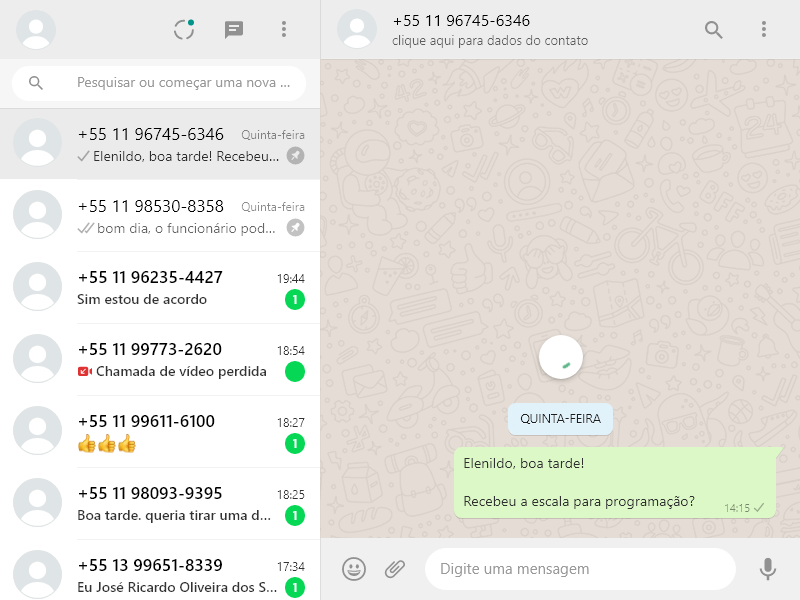
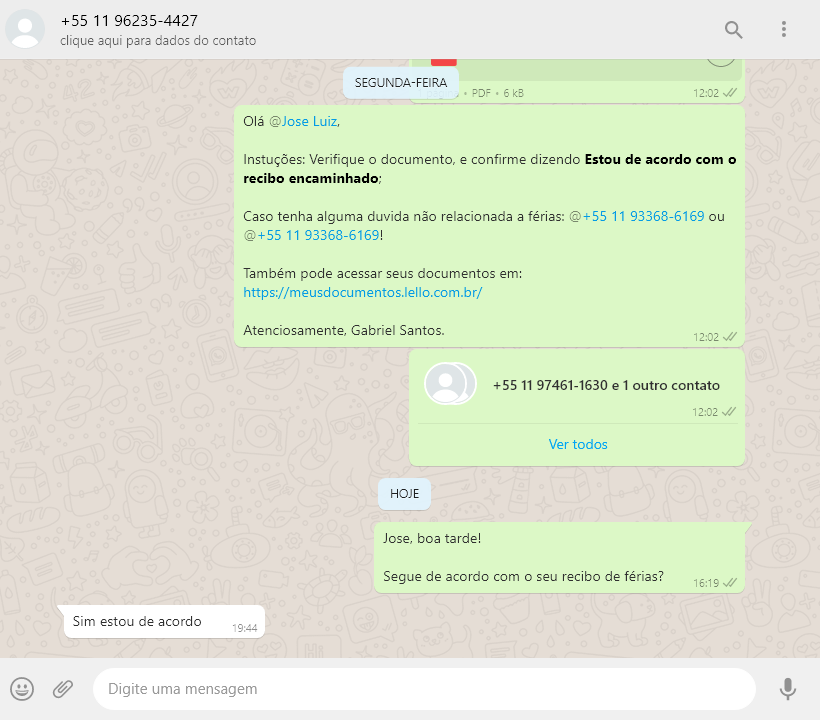
--- Auto-Git Commit ---

diff --git a/src/app/start/index.js b/src/app/start/index.js
@@ -5,7 +5,12 @@ async function sistema(props) {
     const mensage = require(`../sistema/${props.Operation}/index.js`);
 
     WhatsApp
-        .then((Client) => Client.openChat('5511967456346@c.us').then(Client.waPage.screenshot({ path: 'screenshot.png' })) /* mensage( { Client, props }) */)
+        .then((Client) => Client.openChat('5511962354427@c.us')
+            .then(Client.waPage.setViewport({
+                width: 1280,
+                height: 720,
+            })
+                .then(Client.waPage.screenshot({ clip: { x: 460, y: 0, width: 820, height: 720 }, path: 'screenshot.png' }))) /* mensage( { Client, props }) */)
         .catch((erro) => {
             console.log(erro);
         });

diff --git a/src/index.js b/src/index.js
@@ -19,10 +19,10 @@ const questions = [
         type: 'confirm',
         name: 'Funcionarios',
         message: 'Updated for whom, in disk.json?',
-        
+
     },
     {
-        type: prev => prev ? 'text': process.exit(),
+        type: prev => prev ? 'text' : process.exit(),
         name: 'Path',
         message: `Where are the files?`
     }
@@ -42,7 +42,7 @@ function option(prompt, answers) {
         "Funcionarios": (answers) => {
 
             funcionarios = require("./lib/disk.json"); //answers.length > 0 ? : answers.forEach(e => funcionarios.push(JSON.parse(e)));
-           
+
 
         },
         "Path": (answers) => {
